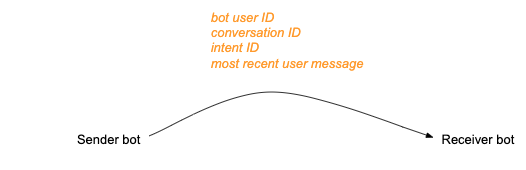
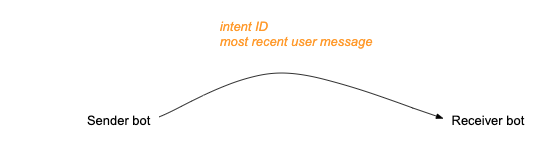
BA-4091 Bot Group updates

diff --git a/pages/documents/ConversationalAI/ConversationBuilder/Bots/MultiBotCollaboration.md b/pages/documents/ConversationalAI/ConversationBuilder/Bots/MultiBotCollaboration.md
@@ -39,7 +39,7 @@ Automatic transfers use "bot groups" to support the discovery of bots that are q
 
 <img style="width:650px" src="img/ConvoBuilder/bots_collab5.png">
 
-During an automatic transfer, the conversational context information is automatically sent from the sender bot to the receiver bot. This ensures a seamless hand-off, allowing the receiver bot to immediately start the appropriate dialog.
+During an automatic transfer, information about the conversation is automatically sent from the sender bot to the receiver bot. This ensures a seamless hand-off, allowing the receiver bot to immediately start the appropriate dialog.
 
 <img style="width:500px" src="img/ConvoBuilder/bots_collab10.png">
 
@@ -55,10 +55,6 @@ There are still some times when you'll need to use a manual transfer instead:
 
 * You want to transfer the conversation from a bot in one bot group to a bot in a *different* bot group.
 * You want to transfer the conversation from a bot to a live agent.
-
-#### How many bot groups do I need?
-
-There's no limit to the number of bot groups that you can create, but it's likely that you'll need just a few. In general, create a bot group whenever you want to divide the bots into groups, such that collaboration occurs only within the group. One common use case is putting all Production bots into one group, all Staging bots into another, and all Development bots into still another. Within a given bot group then, you might have bots for the various business modules that are covered, e.g., an Accounting bot, a Customer Service bot, and so on.
 
 #### Create a bot group
 
@@ -131,7 +127,7 @@ Or, if you've used an [Escalation Integration interaction](conversation-builder-
 
 No coding is required.
 
-Enabling the **Bot Transfer Context** setting enables the use of a Bot Transfer Context object behind the scenes. This object contains the conversational context information that is sent from the sender bot to the receiver bot.
+Enabling the **Bot Transfer Context** setting enables the use of a Bot Transfer Context object behind the scenes. This object contains the information about the conversation that is sent from the sender bot to the receiver bot.
 
    <img style="width:500px" src="img/ConvoBuilder/bots_collab4.png">
 
@@ -151,3 +147,13 @@ In our example below, we've overwritten the user message, and we've done this in
 ### Sharing information between bots
 
 In a transfer from one bot to another--whether automatic or manual--the receiver bot won't have all the context (variables, etc.) that you might have collected in the sender bot. To share this information between bots, use the [Context Session Store](conversation-builder-scripting-functions-manage-the-context-session-store.html).
+
+### FAQs
+
+#### How many bot groups do I need?
+
+There's no limit to the number of bot groups that you can create, but it's likely that you'll need just a few. In general, create a bot group whenever you want to divide the bots into groups, such that collaboration occurs only within the group. One common use case is putting all Production bots into one group, all Staging bots into another, and all Development bots into still another. Within a given bot group then, you might have bots for the various business modules that are covered, e.g., an Accounting bot, a Customer Service bot, and so on.
+
+#### Can I keep bot collaboration disabled and simply use bot groups as a mechanism for grouping my bots?
+
+Yes, this is perfectly fine for modularizing the bots.
